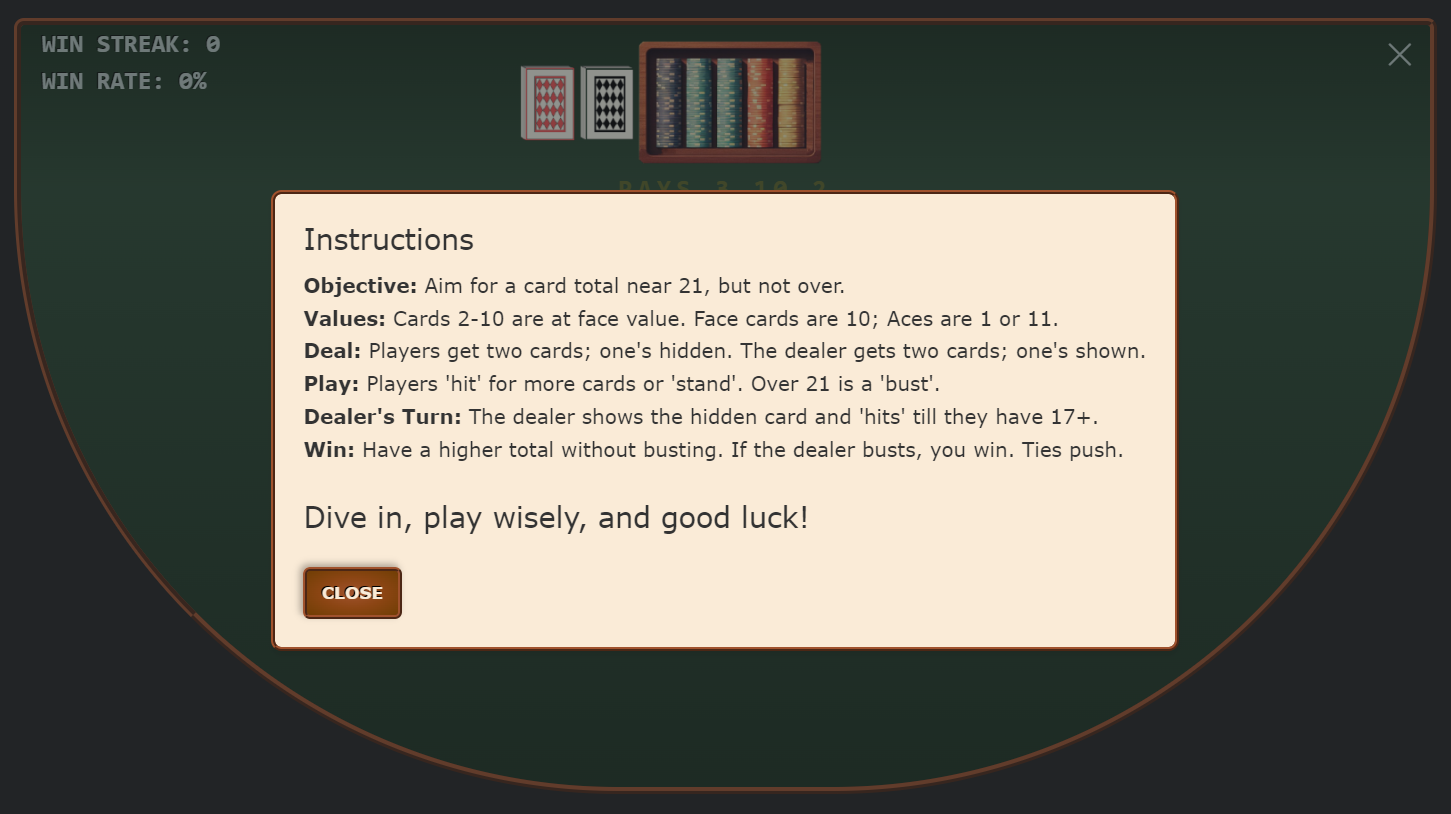
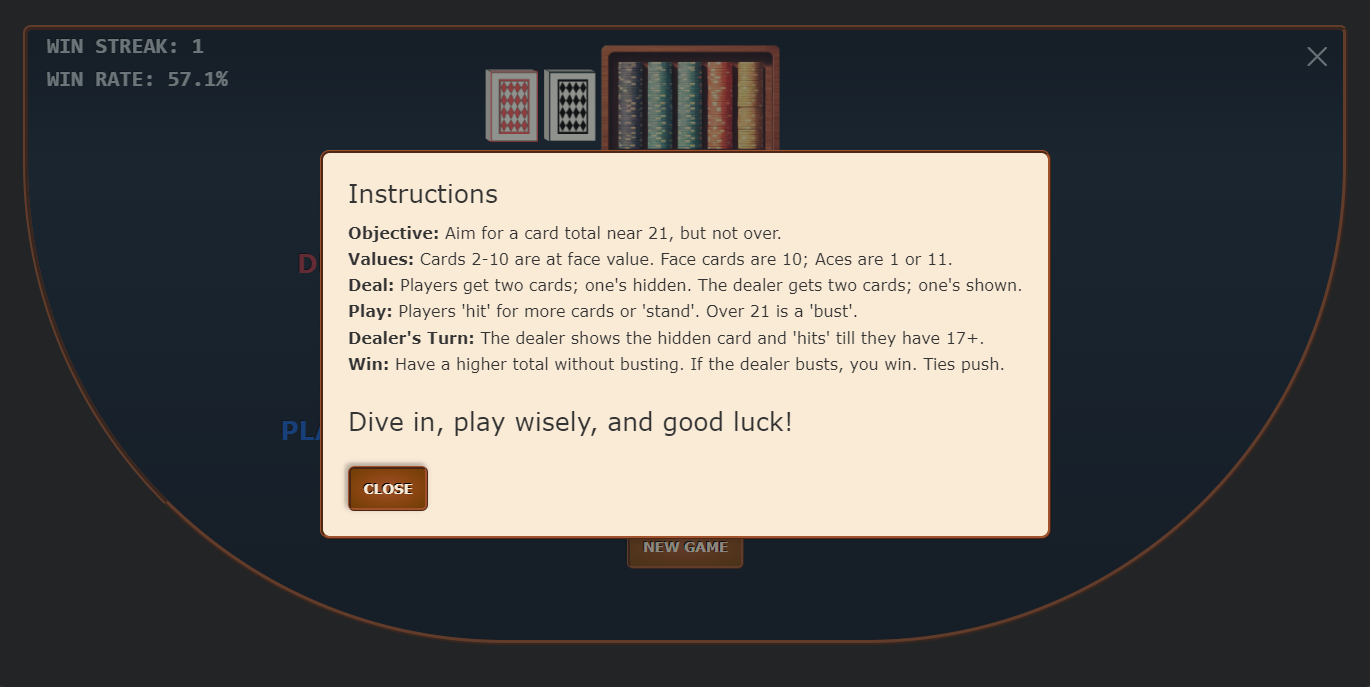
UI Update - switched colors from green 2 blue

diff --git a/wwwroot/css/app.css b/wwwroot/css/app.css
@@ -70,7 +70,7 @@ li, strong {
 
 .game-container-1 {
     height: 20vh;
-    background-image: linear-gradient(360deg, #2b4b34, #19301e);
+    background-image: linear-gradient(360deg, #122536, #0A1624);
     border: 5px ridge Sienna;
     border-radius: 7px 7px 0px 0px;
     border-bottom: none;
@@ -78,7 +78,7 @@ li, strong {
 
 .game-container-2 {
     height: 70vh;
-    background-image: linear-gradient(180deg, #2b4b34, #19301e);
+    background-image: linear-gradient(180deg, #122536, #0A1624);
     border: 5px ridge Sienna;
     border-top: none;
     border-bottom-right-radius: 750px;
